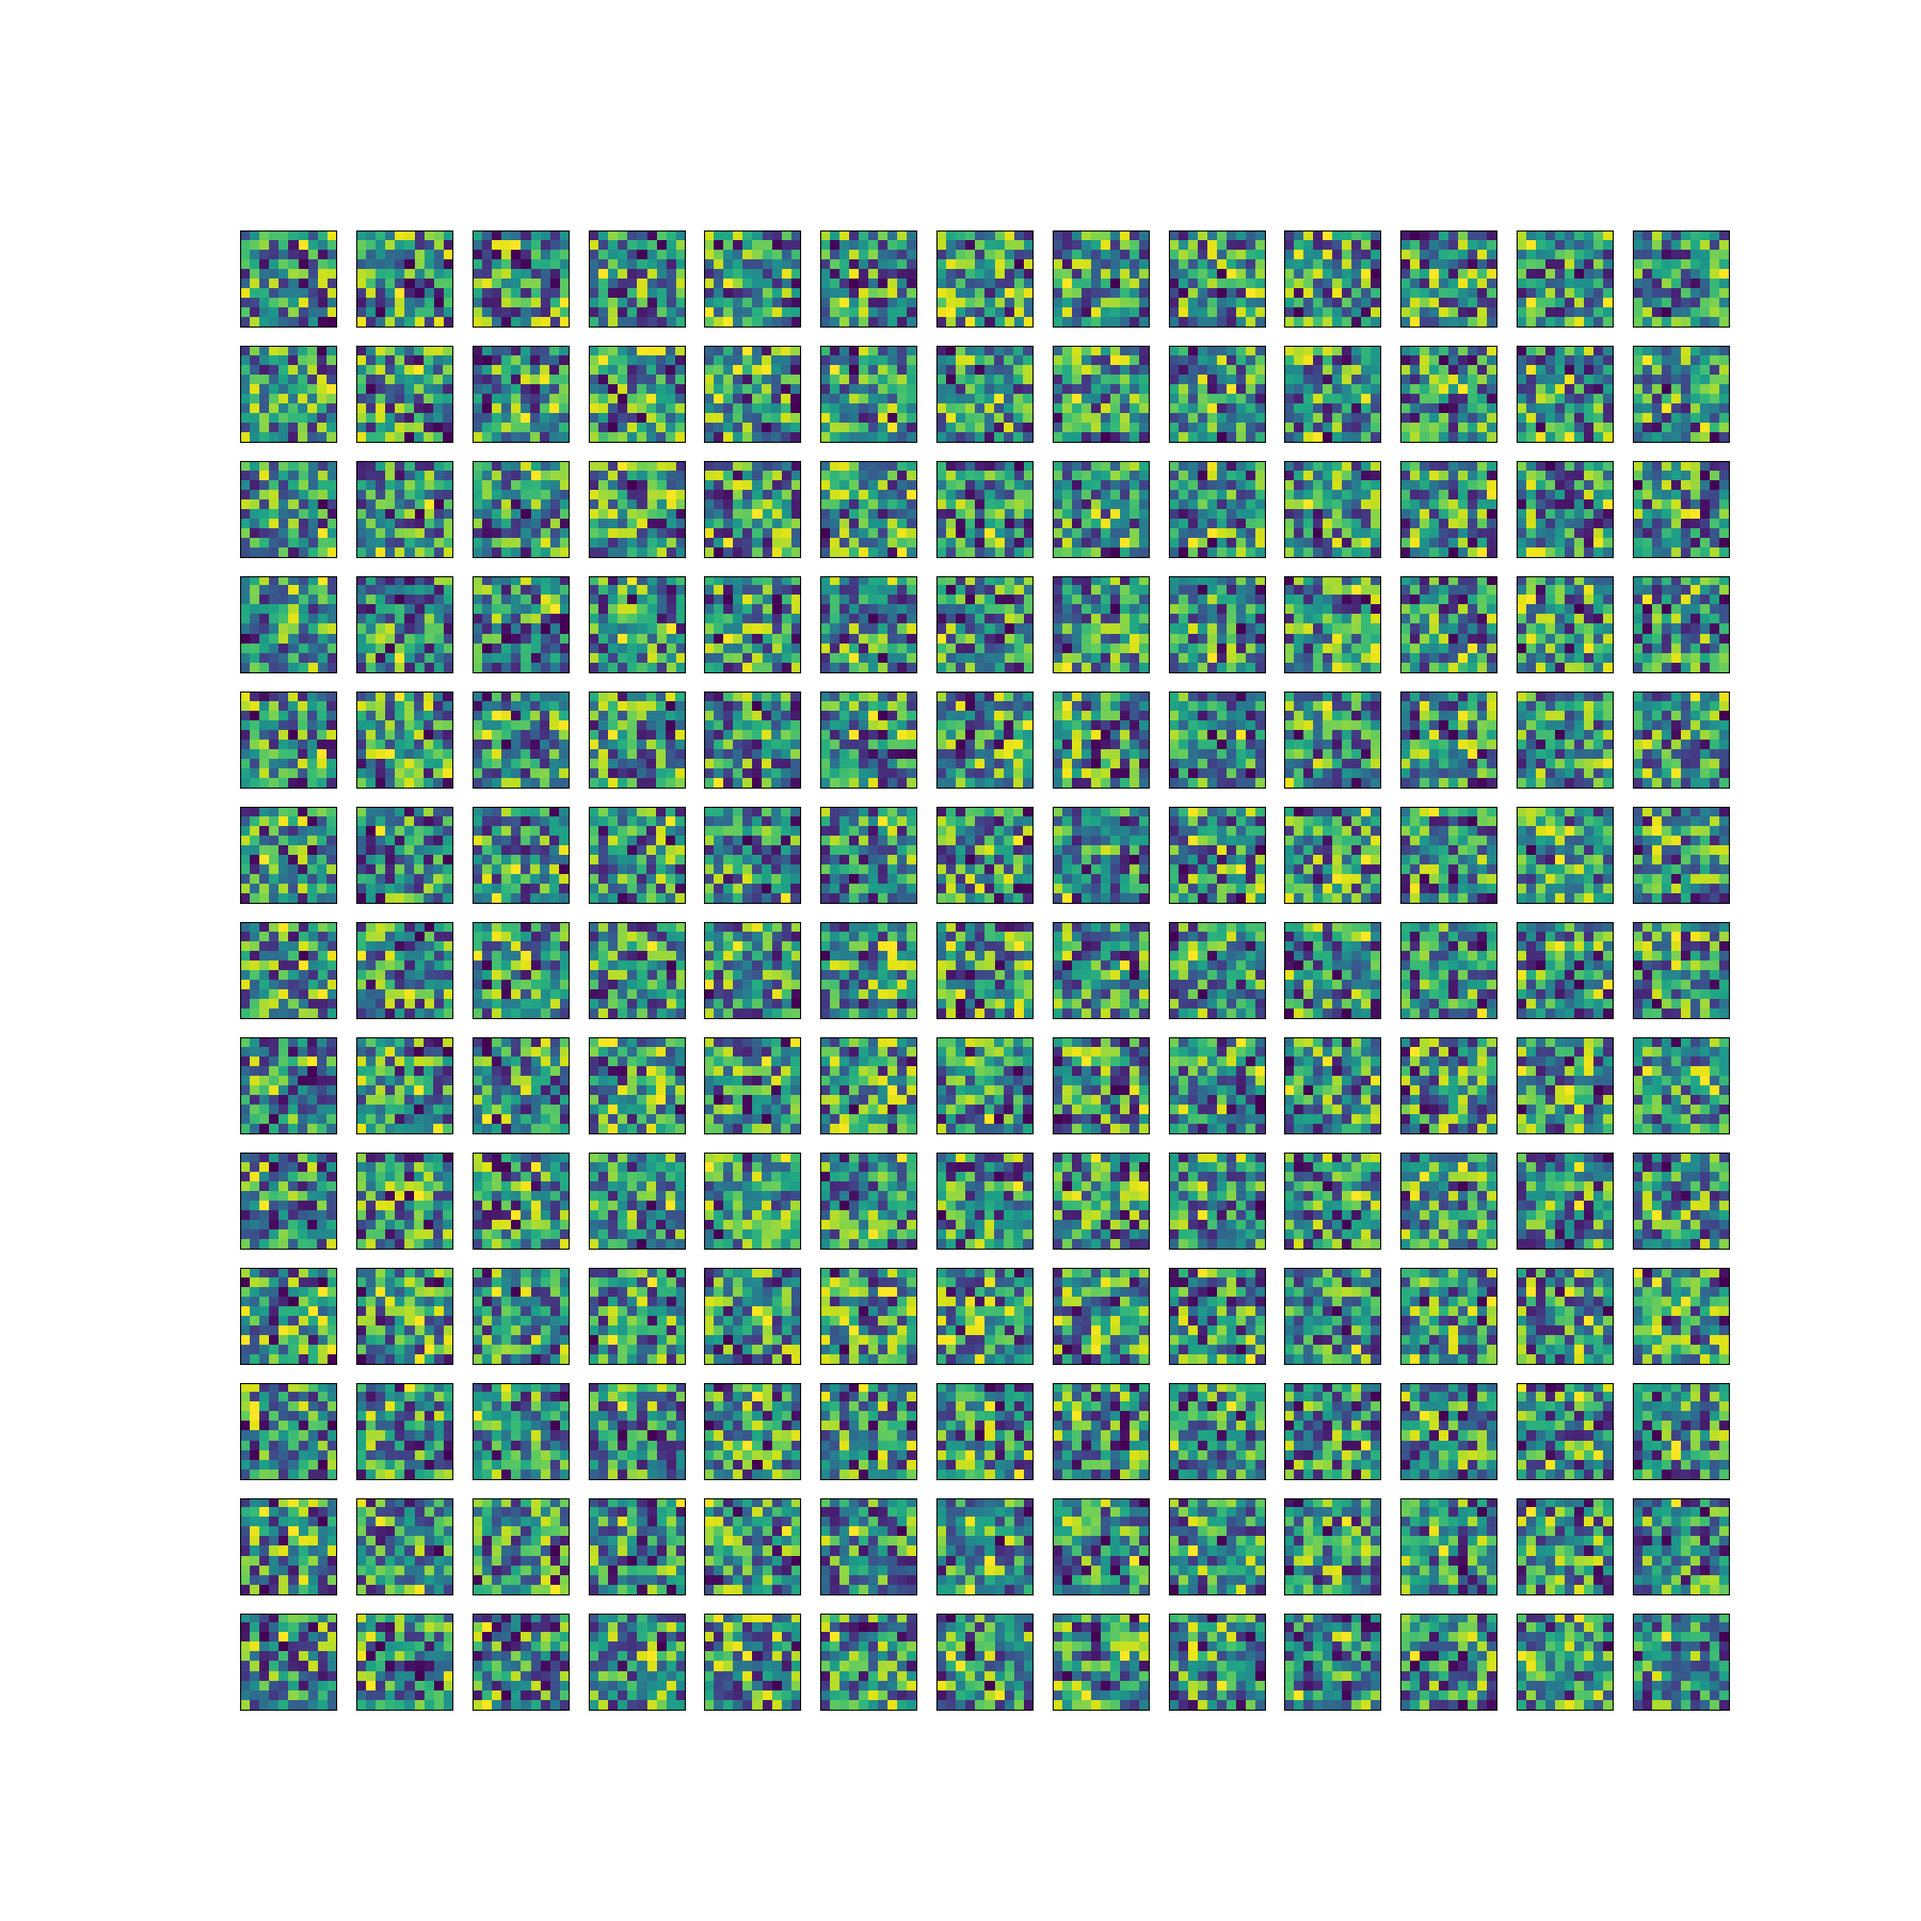
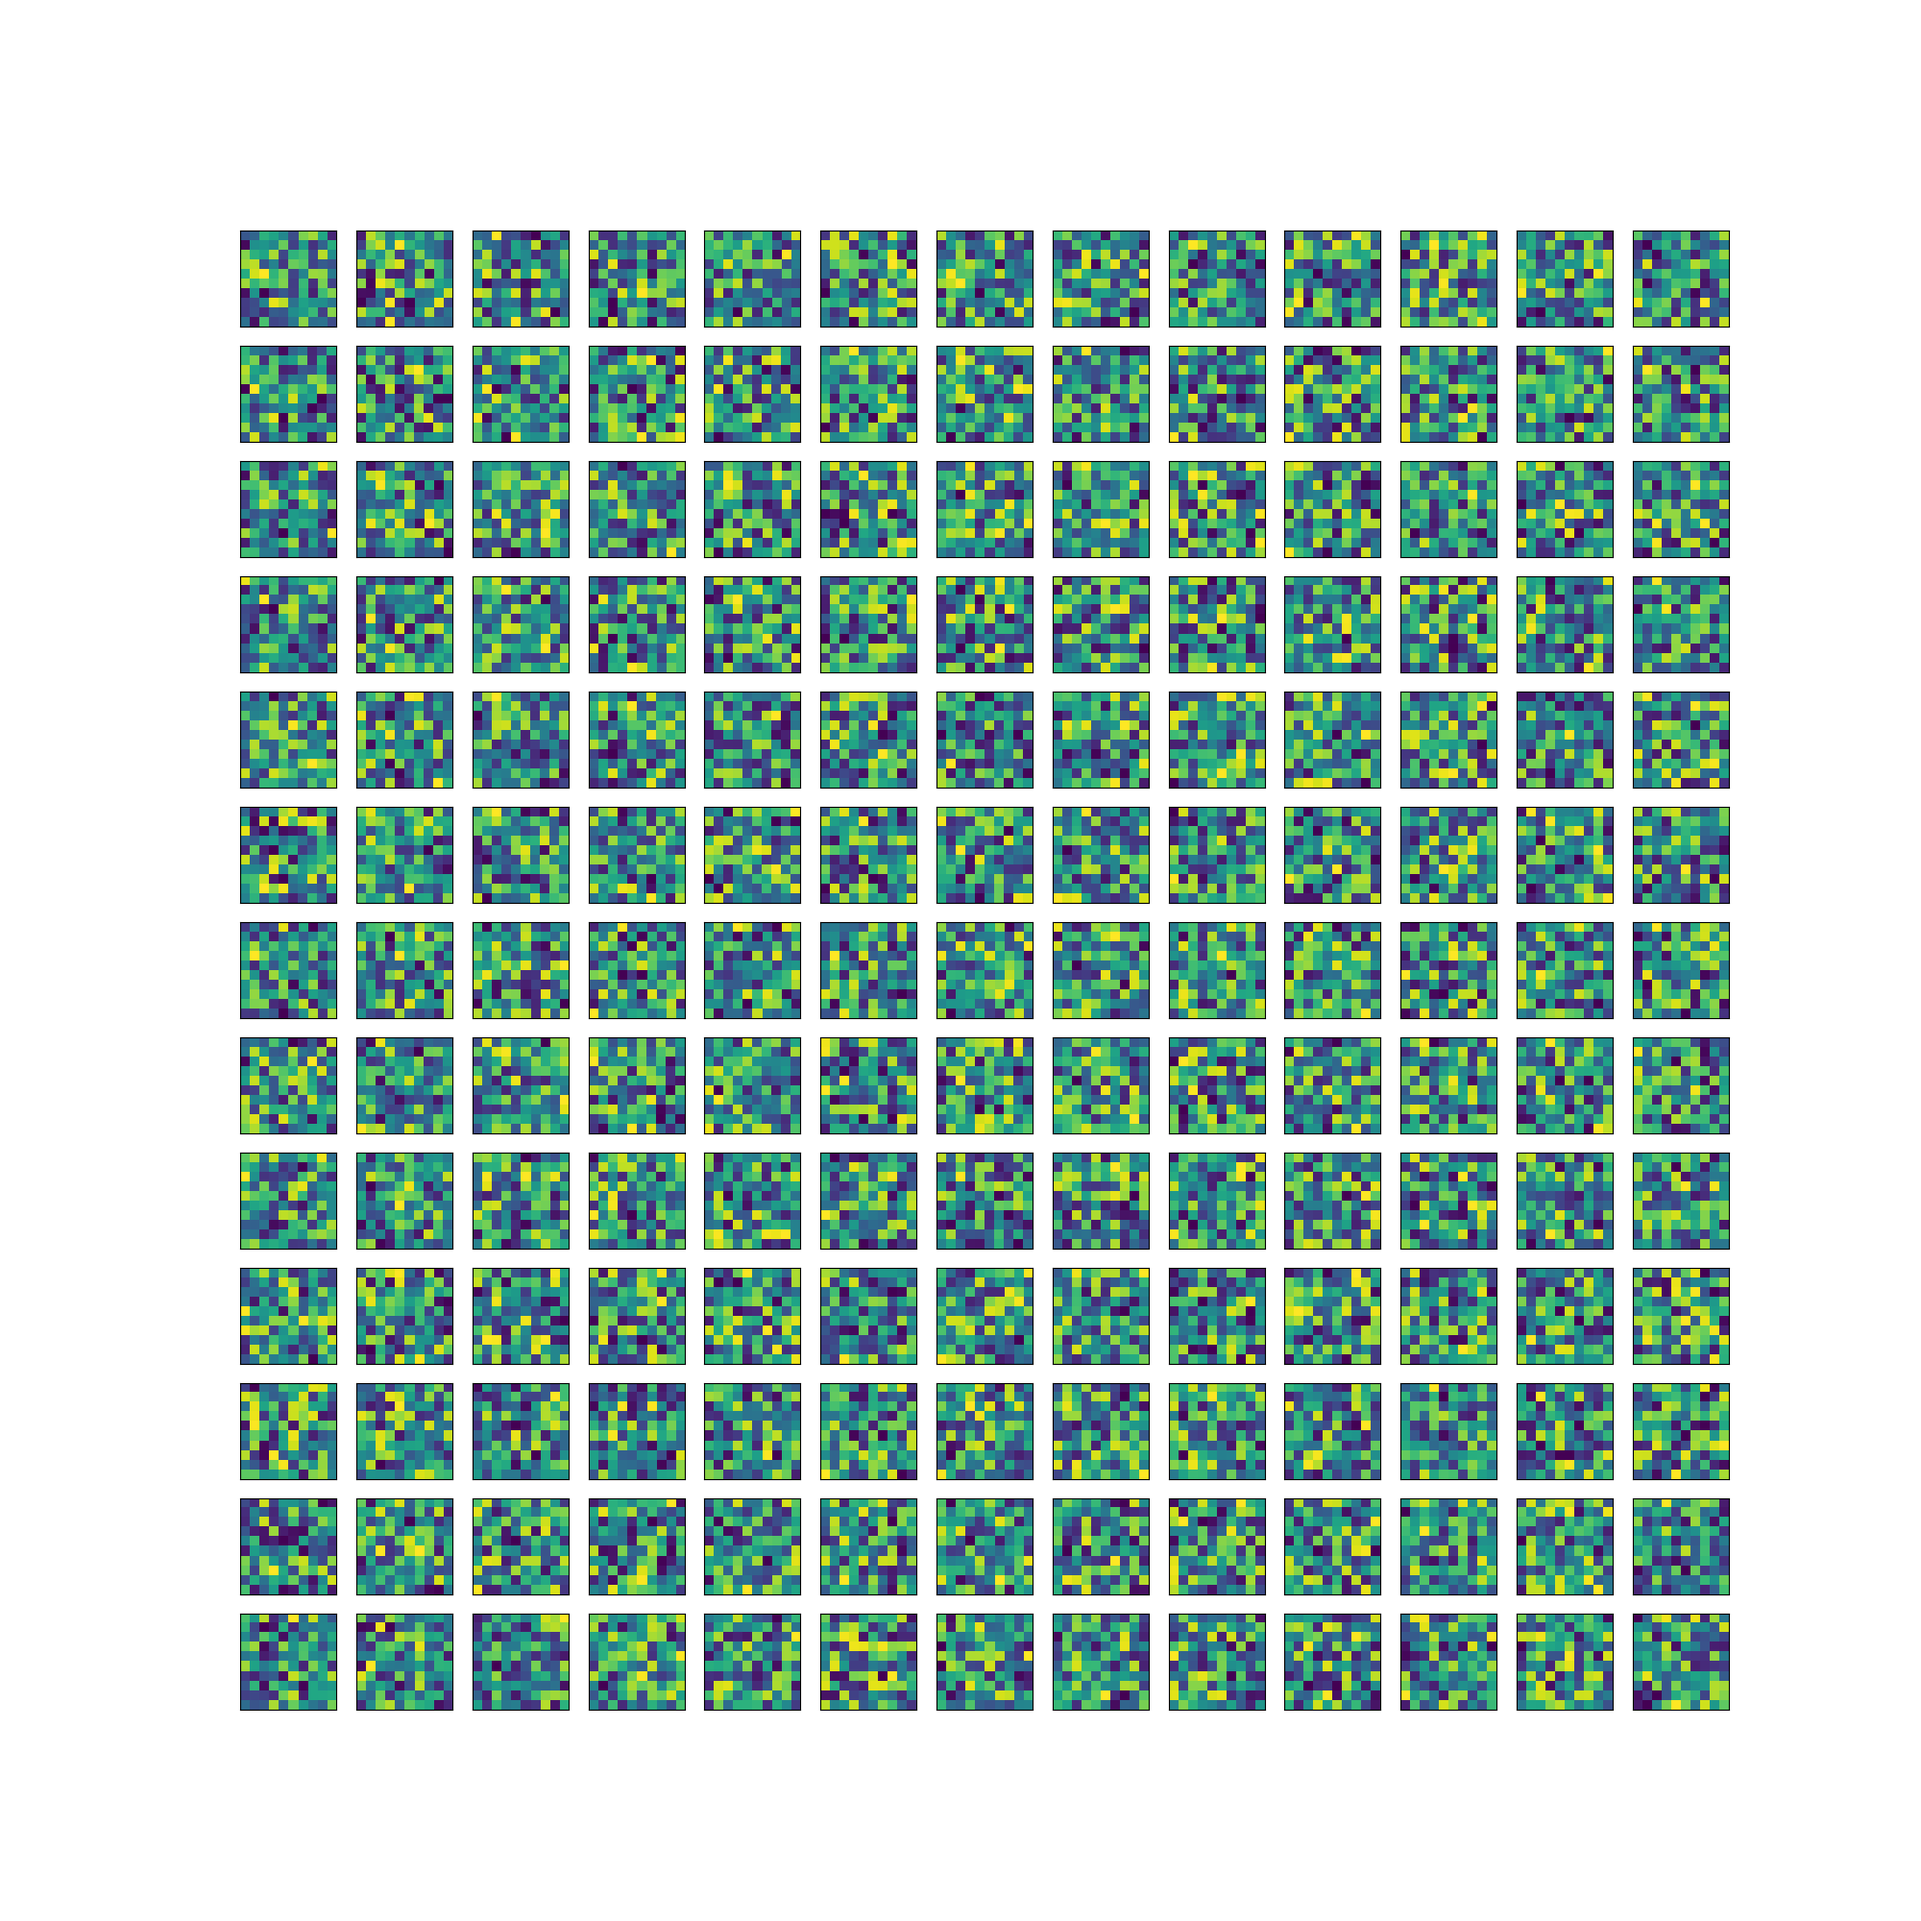
working on DBN weight representations

diff --git a/LAB4/3.2.py b/LAB4/3.2.py
@@ -1,6 +1,6 @@
 import numpy as np
 import matplotlib.pyplot as plt
-from sklearn.neural_network import BernoulliRBM
+from sklearn.neural_network import BernoulliRBM, MLPClassifier
 import matplotlib.pyplot as plt
 from keras.layers import Input,Dense
 from keras.models import Model
@@ -9,6 +9,8 @@ from keras import losses
 import matplotlib.cm as cm
 from sklearn.metrics import mean_squared_error
 import math
+from sklearn.pipeline import Pipeline
+from sklearn import metrics, linear_model
 
 
 train_in = np.loadtxt("./data/bindigit_trn.csv", dtype='i', delimiter=',')
@@ -56,40 +58,99 @@ def stacked_autoencoder(epochs, structure, verbose):
                    verbose=verbose)
     plt.figure("Stacked autoencoder loss")
     plt.plot(history.history['loss'])
-    #plt.show()
     return model
 
+def stacked_RBM(epochs, structure, verbose):
+    print("Yeah!")
 
-#Performance on stacked autoencoder classification with different amount of hidden layer
-#stacked_autoencoder(50, [], 1)
-#stacked_autoencoder(50, [150], 1)
-#stacked_autoencoder(50, [150, 100], 1)
-#stacked_autoencoder(50, [150, 100, 50], 1)
 
-# Show the weights for the hidden weights in the stacked autoencoder 
-structure = [169, 100, 49]
-sae = stacked_autoencoder(50, structure, 0)
-weights = sae.get_weights()
-print("Checking how the weight matrices are placed...")
-for i in range(11):
-    print(weights[i].shape)
-for j in range(6):
-    layer = j*2
-    print("Looking at layer {}".format(layer))
-    print("Weight matrix has shape {}".format(weights[layer].shape))
-    print("Converting weights from input nodes to output nodes into images...")
-    size = weights[layer].shape[0]
-    dim = int(math.sqrt(weights[layer].shape[1]))
-    imagecount = int(math.sqrt(size))
-    plt.figure("Autoencoder weight image", figsize = (20, 20))
-    for i in range(size):
-        # display weights
-        ax = plt.subplot(imagecount, imagecount, i + 1)
-        plt.imshow(weights[layer][i].reshape(dim, dim))
+def autoencoder_loss_different_configuration():
+    stacked_autoencoder(50, [], 1)
+    plt.show()
+    stacked_autoencoder(50, [150], 1)
+    plt.show()
+    stacked_autoencoder(50, [150, 100], 1)
+    plt.show()
+    stacked_autoencoder(50, [150, 100, 50], 1)
+    plt.show()
+
+#Creates an autoencoder with symmetrical hidden layers according to structure and plots the weights for each layer in the resulting network after training
+def check_autoencoder_weight_representations(structure):
+    sae = stacked_autoencoder(50, structure, 0)
+    weights = sae.get_weights()
+    print("Checking how the weight matrices are placed...")
+    for i in range(11):
+        print(weights[i].shape)
+    for j in range(6):
+        layer = j*2
+        print("Looking at layer {}".format(layer))
+        print("Weight matrix has shape {}".format(weights[layer].shape))
+        print("Converting weights from input nodes to output nodes into images...")
+        size = weights[layer].shape[0]
+        dim = int(math.sqrt(weights[layer].shape[1]))
+        imagecount = int(math.sqrt(size))
+        plt.figure("Autoencoder weight image", figsize = (20, 20))
+        for i in range(size):
+            # display weights
+            ax = plt.subplot(imagecount, imagecount, i + 1)
+            plt.imshow(weights[layer][i].reshape(dim, dim))
+            ax.get_xaxis().set_visible(False)
+            ax.get_yaxis().set_visible(False)
+        plt.savefig('weight_{}.png'.format(str(weights[layer].shape)))
+        plt.show()
+
+def create_DBN(structure, epochs):
+    print("Creating a DBN")
+    print("Setting up the {} RBMs".format(len(structure)))
+    networks = []
+    for i in range(len(structure)):
+        rbm = BernoulliRBM(structure[i], batch_size = 100, learning_rate = 0.2,
+                                      n_iter = epochs, verbose = True, random_state = 1)
+        networks.append(('rbm{}'.format(i),rbm))
+        print("\nCreated RBM with {} hidden".format(structure[i]))
+
+    networks.append(('mlp', MLPClassifier(hidden_layer_sizes=(100,), activation='relu', solver='adam',alpha=0.01)))
+    model = Pipeline(networks)
+    print("\nConnected all {} RBMs via a pipeline. Commencing training".format(len(structure)))
+    model.fit(train_in, train_out)
+
+    rbm = networks[0][1]
+
+    plt.figure("DBN weight image 1", figsize = (20, 20))
+    for i, comp in enumerate(rbm.components_):
+        dim1 = int(math.sqrt(structure[0]))
+        ax = plt.subplot(dim1, dim1, i+1)
+        plt.imshow(comp.reshape(28, 28))
         ax.get_xaxis().set_visible(False)
         ax.get_yaxis().set_visible(False)
-    plt.savefig('weight_{}.png'.format(str(weights[layer].shape)))
-    plt.show()
-#
+    plt.savefig("DBN1weights")
 
+    if(len(structure) > 1):
+        dim2 = int(math.sqrt(structure[1]))
+        rbm = networks[1][1]
+        plt.figure("DBN weight image 2", figsize = (20, 20))
+        for i, comp in enumerate(rbm.components_):
+            ax = plt.subplot(dim2, dim2, i+1)
+            plt.imshow(comp.reshape(dim1, dim1))
+            ax.get_xaxis().set_visible(False)
+            ax.get_yaxis().set_visible(False)
+        plt.savefig("DBN2weights")
+
+    if(len(structure) > 2):
+        dim3 = int(math.sqrt(structure[2]))
+        rbm = networks[2][1]
+        plt.figure("DBN weight image 3", figsize = (20, 20))
+        for i, comp in enumerate(rbm.components_):
+            ax = plt.subplot(dim3, dim3, i+1)
+            plt.imshow(comp.reshape(dim2, dim2))
+            ax.get_xaxis().set_visible(False)
+            ax.get_yaxis().set_visible(False)
+        plt.savefig("DBN3weights")
+    plt.show()
+
+
+
+#check_autoencoder_weight_representations([169, 100, 49])
+dbn = create_DBN([169, 100, 49], 20)
+total_error = 0
 
